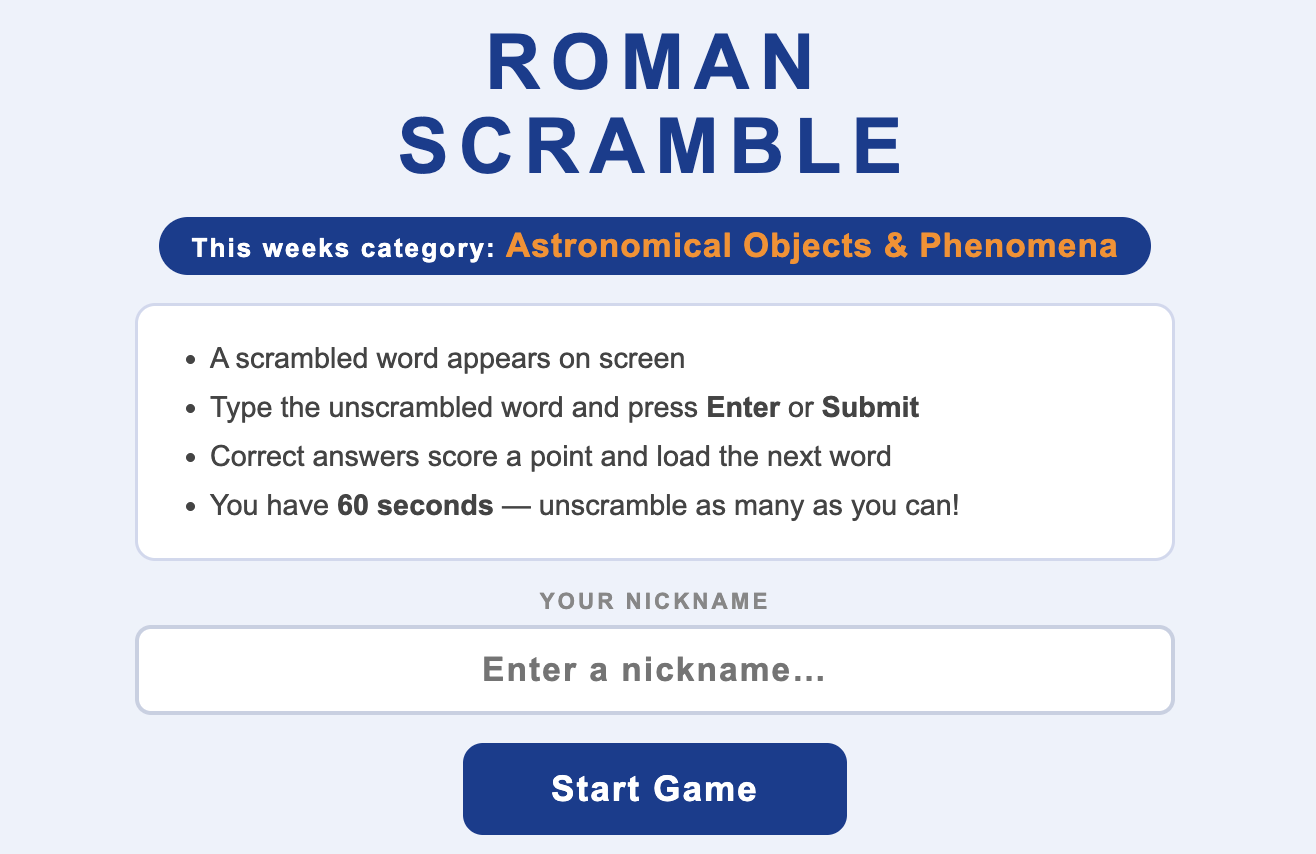
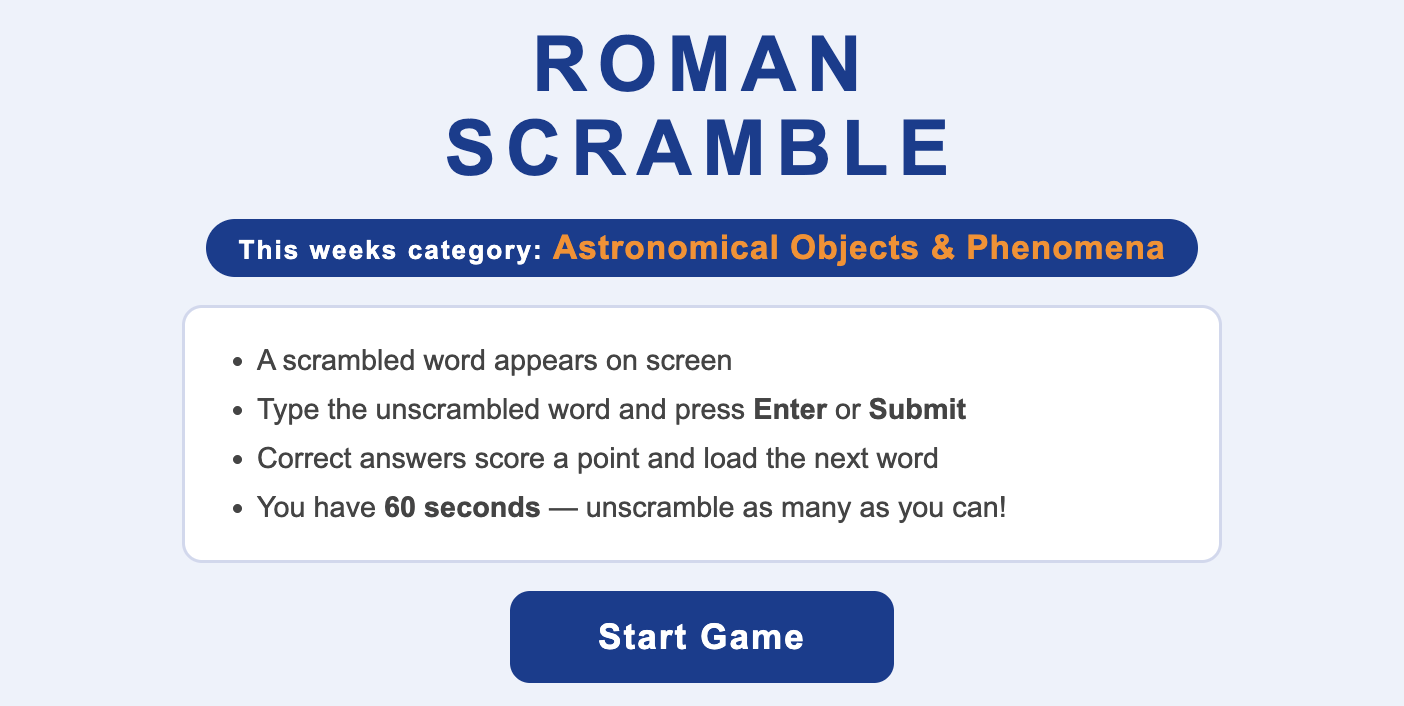
udpate news

Changed region(s): [[0.0935, 0.4674, 0.9035, 0.9972], [0.1246, 0.0312, 0.8723, 0.4363], [0.8412, 0.6232, 0.8723, 0.6856]]

diff --git a/docs/index.md b/docs/index.md
@@ -19,8 +19,11 @@ excerpt: "The Roman Galactic Exoplanet Survey Project Infrastructure Team (RGES 
  <span style="color:red">New Paper Alert:</span> 
  -->
 
-<span style="color:red">**News Alert: RGES PIT is hosting a Microlensing Data Challenge for 2026, find more details on our [Data Challenge Page]({{ site.url }}{{site.baseurl }}/data-challenge).    
-                            The Data Challenge sign-up form can be found [here]({{ site.url }}{{site.baseurl }}/data-challenge/sign-up).**</span>
+<span style="color:red">**News Alert: RGES PIT Games are now live and can be found [here]({{ site.url }}{{site.baseurl }}/games).**</span>
+  &nbsp;
+  &nbsp;
+  **RGES PIT is hosting a Microlensing Data Challenge for 2026, find more details on our [Data Challenge Page]({{ site.url }}{{site.baseurl }}/data-challenge).    
+                            The Data Challenge sign-up form can be found [here]({{ site.url }}{{site.baseurl }}/data-challenge/sign-up).**
   
 &nbsp;  
 